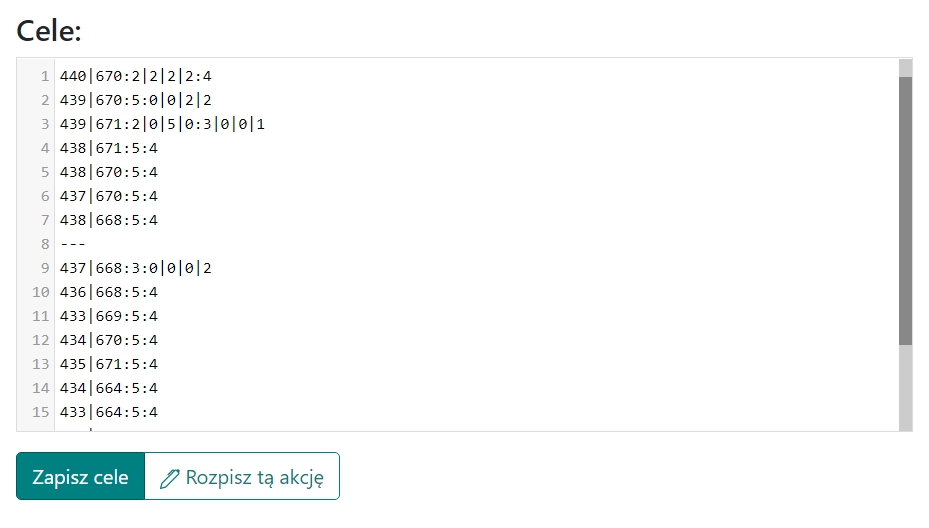
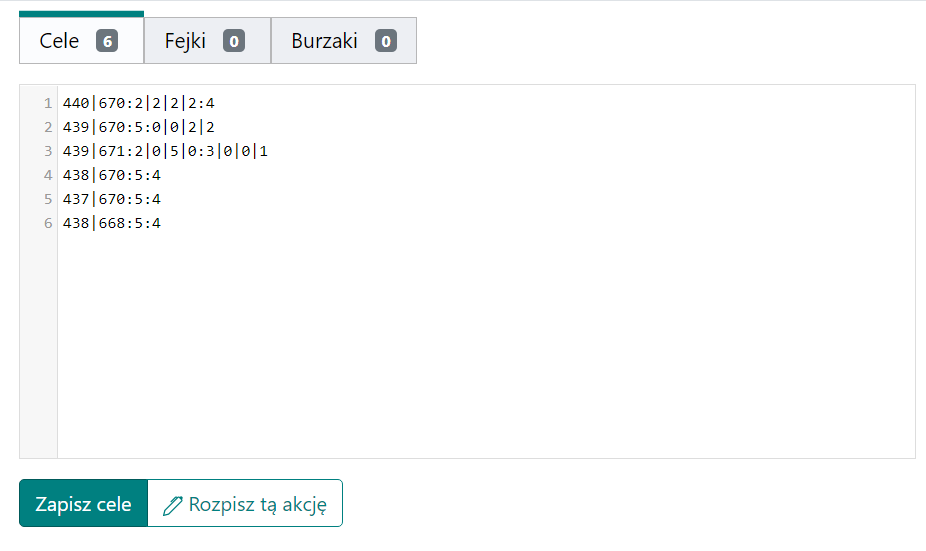
finished v05

diff --git a/tribal_wars/write_out_outline.py b/tribal_wars/write_out_outline.py
@@ -216,6 +216,7 @@ class WriteTarget:
                     building = next(ruin_iter)
                 except StopIteration:
                     break
+                print(building, catapult, i + 1)
             else:
                 off = weight_max.off_left
                 catapult = weight_max.catapult_left
@@ -259,11 +260,18 @@ class WriteTarget:
 
     def sorted_weights_offs(self):
         if self.target.fake:
-            default_off_query = models.WeightMaximum.objects.filter(
-                fake_limit__gte=1,
-                outline=self.outline,
-                off_left__gte=self.outline.initial_outline_min_off,
-            )
+            if self.outline.initial_outline_fake_mode == "off":
+                default_off_query = models.WeightMaximum.objects.filter(
+                    fake_limit__gte=1,
+                    outline=self.outline,
+                    off_left__gte=self.outline.initial_outline_min_off,
+                )
+            else:
+                default_off_query = models.WeightMaximum.objects.filter(
+                    fake_limit__gte=1,
+                    outline=self.outline,
+                    off_left__gte=100 + F("catapult_left") * 8,
+                )   
         elif self.ruin:
             default_off_query = models.WeightMaximum.objects.filter(
                 outline=self.outline

diff --git a/base/views/outline_initial_views.py b/base/views/outline_initial_views.py
@@ -144,6 +144,9 @@ def initial_form(request: HttpRequest, _id: int) -> HttpResponse:
     form4.fields[
         "initial_outline_fake_limit"
     ].initial = instance.initial_outline_fake_limit
+    form4.fields[
+        "initial_outline_fake_mode"
+    ].initial = instance.initial_outline_fake_mode
 
     form5.fields["night_bonus"].initial = instance.night_bonus
     form5.fields["enter_t1"].initial = instance.enter_t1
@@ -224,6 +227,7 @@ def initial_form(request: HttpRequest, _id: int) -> HttpResponse:
                 mode_guide = request.POST.get("mode_guide")
                 fake_limit = request.POST.get("initial_outline_fake_limit")
                 mode_split = request.POST.get("mode_split")
+                initial_outline_fake_mode = request.POST.get("initial_outline_fake_mode")
 
                 instance.mode_off = mode_off
                 instance.mode_noble = mode_noble
@@ -231,6 +235,7 @@ def initial_form(request: HttpRequest, _id: int) -> HttpResponse:
                 instance.mode_guide = mode_guide
                 instance.mode_split = mode_split
                 instance.initial_outline_fake_limit = fake_limit
+                instance.initial_outline_fake_mode = initial_outline_fake_mode
 
                 instance.save()
 

diff --git a/base/models.py b/base/models.py
@@ -246,6 +246,11 @@ class Outline(models.Model):
 
     CATAPULTS_NUMBER = [(50, 50), (75, 75), (100, 100), (150, 150), (200, 200)]
 
+    FAKE_MIN_OFF_CHOICES = [
+        ("off", gettext_lazy("Fakes only from off villages")),
+        ("all", gettext_lazy("Fakes from all villages")),
+    ]
+
     owner = models.ForeignKey(User, on_delete=models.CASCADE)
     date = models.DateField(default=django.utils.timezone.now)
     name = models.TextField()
@@ -287,6 +292,7 @@ class Outline(models.Model):
     initial_outline_fake_limit = models.IntegerField(
         default=4, validators=[MinValueValidator(0), MaxValueValidator(20)]
     )
+    initial_outline_fake_mode = models.CharField(max_length=60, choices=FAKE_MIN_OFF_CHOICES, default="off")
 
     off_troops = models.TextField(
         blank=True,

diff --git a/base/forms.py b/base/forms.py
@@ -320,6 +320,7 @@ class ModeOutlineForm(forms.ModelForm):
             "mode_guide",
             "mode_split",
             "initial_outline_fake_limit",
+            "initial_outline_fake_mode",
         ]
         labels = {
             "mode_off": gettext_lazy("Choose the distance of the written offs:"),
@@ -333,6 +334,9 @@ class ModeOutlineForm(forms.ModelForm):
             ),
             "initial_outline_fake_limit": gettext_lazy(
                 "Maximum number of fakes from one off village:"
+            ),
+            "initial_outline_fake_mode": gettext_lazy(
+                "Determine which villages to write fake attacks from:"
             ),
         }
         widgets = {

diff --git a/tribal_wars/avaiable_troops.py b/tribal_wars/avaiable_troops.py
@@ -150,9 +150,10 @@ def update_available_ruins(outline: models.Outline) -> None:
         .aggregate(ruin_sum=Sum("ruin_number"))["ruin_sum"]
         or 0
     )
-
+    
     ruins_from_offs: int = (
         models.WeightMaximum.objects.filter(
+            outline=outline,
             first_line=False,
             catapult_left__gte=outline.initial_outline_catapult_default
             + outline.initial_outline_off_left_catapult,

diff --git a/docs/documentation_pl.md b/docs/documentation_pl.md
@@ -262,13 +262,9 @@ W zakładce <span class="md-error">Planer</span> należy umieszczać cele akcji 
 210|210:4:4|0|0|0
 215|215:0|2|3|5:2
 220|220:0|0|3|3:2|0|2|0
-200|200
----
-225|225:4:2
-230|230:4:4
-235|235:6:3</pre></div>
+200|200</pre></div>
 
-<div class="p-3 mb-2 bg-light text-dark"><svg xmlns="http://www.w3.org/2000/svg" width="1.2em" height="1.2em" fill="currentColor" class="bi bi-info-square" viewBox="0 0 16 16"><path d="M14 1a1 1 0 0 1 1 1v12a1 1 0 0 1-1 1H2a1 1 0 0 1-1-1V2a1 1 0 0 1 1-1h12zM2 0a2 2 0 0 0-2 2v12a2 2 0 0 0 2 2h12a2 2 0 0 0 2-2V2a2 2 0 0 0-2-2H2z"/><path d="M8.93 6.588l-2.29.287-.082.38.45.083c.294.07.352.176.288.469l-.738 3.468c-.194.897.105 1.319.808 1.319.545 0 1.178-.252 1.465-.598l.088-.416c-.2.176-.492.246-.686.246-.275 0-.375-.193-.304-.533L8.93 6.588zM9 4.5a1 1 0 1 1-2 0 1 1 0 0 1 2 0z"/></svg> Cele mogą być wklejane na kilka sposobów, najłatwiej w kolejnych linijkach wklejać kolejne <span class="md-error">same kordy</span>, wówczas domyślnie ilość offów i szlachty zostanie uzupełniona jako <span class="md-error">0</span>. Ilość offów i szlachty kodowane są najprościej jako np. <span class="md-error">koordy:2:2</span> co oznacza <span class="md-error">koordy:dwa-offy:dwa-szachcice</span>, a bardziej dokładnie zapis <span class="md-error">kordy:2:1|1|1|1</span> oznaczać będzie 2 offy i po 1 szlachcicu kolejno z bliska, bliskiego zaplecza, losowo, z daleka. Separator <span class="md-error">---</span> oddziela prawdziwe cele od fejków, które kodujemy identycznie.</div>
+<div class="p-3 mb-2 bg-light text-dark"><svg xmlns="http://www.w3.org/2000/svg" width="1.2em" height="1.2em" fill="currentColor" class="bi bi-info-square" viewBox="0 0 16 16"><path d="M14 1a1 1 0 0 1 1 1v12a1 1 0 0 1-1 1H2a1 1 0 0 1-1-1V2a1 1 0 0 1 1-1h12zM2 0a2 2 0 0 0-2 2v12a2 2 0 0 0 2 2h12a2 2 0 0 0 2-2V2a2 2 0 0 0-2-2H2z"/><path d="M8.93 6.588l-2.29.287-.082.38.45.083c.294.07.352.176.288.469l-.738 3.468c-.194.897.105 1.319.808 1.319.545 0 1.178-.252 1.465-.598l.088-.416c-.2.176-.492.246-.686.246-.275 0-.375-.193-.304-.533L8.93 6.588zM9 4.5a1 1 0 1 1-2 0 1 1 0 0 1 2 0z"/></svg> Cele mogą być wklejane na kilka sposobów, najłatwiej w kolejnych linijkach wklejać kolejne <span class="md-error">same kordy</span>, wówczas domyślnie ilość offów i szlachty zostanie uzupełniona jako <span class="md-error">0</span>. Ilość offów i szlachty kodowane są najprościej jako np. <span class="md-error">koordy:2:2</span> co oznacza <span class="md-error">koordy:dwa-offy:dwa-szachcice</span>, a bardziej dokładnie zapis <span class="md-error">kordy:2:1|1|1|1</span> oznaczać będzie 2 offy i po 1 szlachcicu kolejno z bliska, bliskiego zaplecza, losowo, z daleka. <b>Fejki</b> i <b>Burzaki</b> wpisujemy w odpowiednich zakładach w ten sam sposób.</div>
 
 
 
@@ -283,22 +279,22 @@ Rozwiń pierwszą zakładkę <span class="md-correct2">1. Dostępne jednostki</s
 <img id="large" class="img-thumbnail" onclick="img_box(this)" style="max-height:250px;" src="/static/docs/test-example.png" alt="test world example content form">
 
 <p class="md-error">Kliknij teraz <span class="md-correct2">Rozpisz tą akcję</span>, czas na kolejną zakładkę :)</p>
-
+ 
 <div class="p-3 mb-2 bg-light text-dark"><svg xmlns="http://www.w3.org/2000/svg" width="1.2em" height="1.2em" fill="currentColor" class="bi bi-info-square" viewBox="0 0 16 16"><path d="M14 1a1 1 0 0 1 1 1v12a1 1 0 0 1-1 1H2a1 1 0 0 1-1-1V2a1 1 0 0 1 1-1h12zM2 0a2 2 0 0 0-2 2v12a2 2 0 0 0 2 2h12a2 2 0 0 0 2-2V2a2 2 0 0 0-2-2H2z"/><path d="M8.93 6.588l-2.29.287-.082.38.45.083c.294.07.352.176.288.469l-.738 3.468c-.194.897.105 1.319.808 1.319.545 0 1.178-.252 1.465-.598l.088-.416c-.2.176-.492.246-.686.246-.275 0-.375-.193-.304-.533L8.93 6.588zM9 4.5a1 1 0 1 1-2 0 1 1 0 0 1 2 0z"/></svg> Dla różnych akcji, ich rozypisywanie będzie się nieco różnić. Dla mniejszych akcji np. w początkowym etapie światów, warto dopracowywać każdy cel z osobna w wygodnej edycji, ale dla ogromnych akcji to oczywiście niemożliwe, wtedy należy bardziej skupić się na zakładce <span class="md-error">Planer</span> i dostepnych tam ustawieniach.</div>
 
 ---
 
 #### Cztery zakładki w Menu akcji
 
-<p class="md-error">W następnej zakładce zobaczysz Menu z 4 zakładkami zaznaczonymi na obrazku poniżej (1,2,3,4), przyciskiem Powrotu do poprzedniej zakładki (5) oraz edycji każdego celu (6,7,8).</p>
+<p class="md-error">W następnej zakładce zobaczysz Menu z 4 zakładkami zaznaczonymi na obrazku poniżej (2,3,4,5), przyciskiem Powrotu do poprzedniej zakładki (1), edycji każdego celu (7,8,9) oraz nawigacja między stronami (10).</p>
 <br>
 <img id="large" class="img-thumbnail" onclick="img_box(this)" style="max-height:250px;" src="/static/docs/test-menu.png" alt="test world example menu">
 <br>
-<p class="md-error">1. DODAJ LUB USUŃ CELE</p>
+<p class="md-error">2. DODAJ LUB USUŃ CELE</p>
 
 Ta zakładka jest bardzo prosta. Dodaj kordy wioski zaznaczając czy jest to cel czy też cel na fejki. Sprawdź czy na pewno ta wioska istnieje na świecie, czy na pewno nie jest to wioska barbarzyńska (takich się nie da dodać w obecnej wersji) oraz czy nie została już przez Ciebie dodana wcześniej (powtórzenia są dozwolone, ale tylko w poprzedniej zakładce.)
 
-<p class="md-error">2. MENU - USTAW CELE</p>
+<p class="md-error">3. MENU - USTAW CELE</p>
 
 Cele są podzielone po 12 na jedną stronę. Przy każdym z nich znajduje się przycisk <span class="md-correct2">Edytuj</span> pozwalający dopracować każdy cel z osobna. Klikając na edycję pierwszego celu czyli <span class="md-error">nr 6</span> na powyższym zdjęciu dostaniemy poniższy widok wraz z ponumerownymi przyciskami, opisanymi poniżej.
 
@@ -318,25 +314,30 @@ Cele są podzielone po 12 na jedną stronę. Przy każdym z nich znajduje się p
 
 ---
 
-<p class="md-error">3. MENU - USTAW FEJKI</p>
+<p class="md-error">4. MENU - USTAW FEJKI</p>
 
 To samo co ustawianie prawdziwych celów, z tą różnicą że domyślnie fejkiem jest liczba jednostek w postaci 100 jednostek. Przy generowaniu celów wyświetlane naszym graczom jest tylko <span class="md-error">wyślij fejka</span> bez konkretów co do jednostek, chodzi o to, że każdy fejk zajmuje pewne miejsce w zagrodzie i niedociągnięciem byłoby to ignorować.
 
-<p class="md-error">4. USTAW CZASY WEJŚCIA I ZAKOŃCZ ROZPISKĘ</p>
+<p class="md-error">5. MENU - USTAW BURZAKI</p>
+
+To samo co ustawianie prawdziwych celów, z tą różnicą że domyślnie widoczne są burzaki i offy. W edycji dodawana liczba katapult w każdym burzaku jest stała i równa domyślnej ustalonej w wcześniejszych formularzach. Przy generowaniu celów wyświetlane naszym graczom jest tylko <span class="md-error">burzak</span> jeśli dodajemy je tutaj, zaś przy automatycznym rozpisywaniu dodatkowo zostanie podany na jaki budynek.
+
+<p class="md-error">6. USTAW CZASY WEJŚCIA I ZAKOŃCZ ROZPISKĘ</p>
 
 <div class="p-3 mb-2 bg-light text-dark"><svg xmlns="http://www.w3.org/2000/svg" width="1.2em" height="1.2em" fill="currentColor" class="bi bi-info-square" viewBox="0 0 16 16"><path d="M14 1a1 1 0 0 1 1 1v12a1 1 0 0 1-1 1H2a1 1 0 0 1-1-1V2a1 1 0 0 1 1-1h12zM2 0a2 2 0 0 0-2 2v12a2 2 0 0 0 2 2h12a2 2 0 0 0 2-2V2a2 2 0 0 0-2-2H2z"/><path d="M8.93 6.588l-2.29.287-.082.38.45.083c.294.07.352.176.288.469l-.738 3.468c-.194.897.105 1.319.808 1.319.545 0 1.178-.252 1.465-.598l.088-.416c-.2.176-.492.246-.686.246-.275 0-.375-.193-.304-.533L8.93 6.588zM9 4.5a1 1 0 1 1-2 0 1 1 0 0 1 2 0z"/></svg> Po oglądnieciu wszystkich zakładek i ewentualnych operacjach w edycji poszczególnych celów, na koniec, w celu zakończenia rozpiski skieruj się do ostatniej zakładki <span class="md-error">Time</span>, której opis znajdziesz poniżej.</div>
 
 <br>
 <img id="large" class="img-thumbnail" onclick="img_box(this)" style="max-height:250px;" src="/static/docs/test-time.png" alt="test world example target edit">
+<img id="large" class="img-thumbnail" onclick="img_box(this)" style="max-height:250px;" src="/static/docs/test-time2.png" alt="test world example target edit">
 <br>
 <p class="my-0"><span class="md-error">1</span> - Zakończenie rozpiski</p>
 <p class="my-0"><span class="md-error">2</span> - Tworzenie nowego obiektu czasu.</p>
 <p class="my-0"><span class="md-error">3</span> -  Tutaj będą kolejno zakładki kolejnych czasów.</p>
 <p class="my-0"><span class="md-error">4</span> -  Usunięcie obiektu czasu.</p>
-<p class="my-0"><span class="md-error">5</span> -  Ustawienie czasu dla wszystkich możliwych celów.</p>
-<p class="my-0"><span class="md-error">6</span> -  Zatwierdzenie po wyborze czasów w 8 dla celów.</p>
-<p class="my-0"><span class="md-error">7</span> -  Numer obecnie przypisanego czasu dla danego celu.</p>
-<p class="my-0"><span class="md-error">8</span> -  Lista dostępnych czasów do wyboru.</p>
+<p class="my-0"><span class="md-error">5</span> -  Zatwierdzenie wybranego czasu dla wszystkich prawdziwych celów.</p>
+<p class="my-0"><span class="md-error">6</span> -  Zatwierdzenie wybranego czasu dla wszystkich fejk celów.</p>
+<p class="my-0"><span class="md-error">7</span> -  Zatwierdzenie wybranego czasu dla wszystkich burzonych celów (Uwaga wtedy jednostka <b>Szlachcic</b> jest utożsamiany z Burzakami (notatka po najechaniu na pytajnik) by nie było zamętu nazewnictwa.</p>
+<p class="my-0"><span class="md-error">8,9,10,11</span> - Analogicznie możemy wybrać numer obecnie przypisanego czasu dla danego celu. Czas aktualizowany jest natychmiast po kliknięciu.</p>
 
 ---
 
@@ -804,6 +805,7 @@ if ("message" in result) {
 <p class="my-0"><b><a href="#male-akcje-kompletny-poradnik">3. Małe akcje - kompletny poradnik</a></b></p>
 <p class="my-0"><b><a href="#srednie-akcje-kompletny-poradnik">4. Średnie akcje - kompletny poradnik</a></b></p>
 <p class="my-0"><b><a href="#duze-akcje-kompletny-poradnik">5. Duże akcje - kompletny poradnik</a></b></p>
+<p class="my-0"><b><a href="#akcje-burzace-kompletny-poradnik">6. Akcje burzące - kompletny poradnik</a></b></p>
 
 ---
 
@@ -821,16 +823,13 @@ if ("message" in result) {
 <img id="large" class="img-thumbnail" onclick="img_box(this)" style="max-height:250px;" src="/static/docs/target-ex1.png" alt="Targets example 1">  
 
 **440|670:5:4** w pierszej linijce to przykład, jak domyślnie kodować ilość offów i szlachciców na dany cel. Pierwsza liczba oznacza <span class="md-error">Ilość offów</span>, zaś druga <span class="md-error">Ilość szlachciców</span>.<br><br>
-Zwróć uwagę na występujący w ósmej linijce separator **---**<br>
-Planer obsługuje dwa rodzaje celów, prawdziwe oraz fejkowe. <span class="md-error">Cele prawdziwe</span> wpisz nad separator **---**, zaś <span class="md-error">Cele fejkowe</span> pod nim. W powyższym przykładzie, wioska **437|668** i poniższe są to <span class="md-error">Cele fejkowe</span> zaś wszystkie powyżej, <span class="md-error">Cele prawdziwe</span>.
-
-<div class="p-3 mb-2 bg-light text-dark"><svg xmlns="http://www.w3.org/2000/svg" width="1.2em" height="1.2em" fill="currentColor" class="bi bi-info-square" viewBox="0 0 16 16"><path d="M14 1a1 1 0 0 1 1 1v12a1 1 0 0 1-1 1H2a1 1 0 0 1-1-1V2a1 1 0 0 1 1-1h12zM2 0a2 2 0 0 0-2 2v12a2 2 0 0 0 2 2h12a2 2 0 0 0 2-2V2a2 2 0 0 0-2-2H2z"/><path d="M8.93 6.588l-2.29.287-.082.38.45.083c.294.07.352.176.288.469l-.738 3.468c-.194.897.105 1.319.808 1.319.545 0 1.178-.252 1.465-.598l.088-.416c-.2.176-.492.246-.686.246-.275 0-.375-.193-.304-.533L8.93 6.588zM9 4.5a1 1 0 1 1-2 0 1 1 0 0 1 2 0z"/></svg> Jeśli separator <b>---</b> nie zostanie nigdzie wpisany, domyślnie pojawi się pod wpisanymi celami (innymi słowy, domyślnie <b>nie</b> podając celów na fejki, przyjmuje się, że wpisujesz tylko prawdziwe cele i separator pojawia się na samym końcu).</div><br>
+Planer obsługuje trzy rodzaje celów, prawdziwe, fejkowe oraz burzące. <span class="md-error">Cele prawdziwe</span> zamieszaj w **Cele**, <span class="md-error">Cele fejkowe</span> obok w **Fejki**, zaś <span class="md-error">Cele do burzenia</span> w **Burzaki**. Dla **Fejków** kodujemy zamiast offów i szlachiców odpowiednio ilość fejków i fejk szlachciców, zaś w zakładce **Burzaki** odpowiednio ilość offów i ilość burzaków (które wchodzą za offami).
 
 ##### Przykład 2, rozszerzone kodowanie offów i szlachty
 
 <img id="large" class="img-thumbnail" onclick="img_box(this)" style="max-height:250px;" src="/static/docs/target-ex2.png" alt="Targets example 2">  
 
-Domyślne cele jak w **Przykładzie 1**, dziedziczą tryb wysyłania z zakładki <b><a href="#jak-wpisywac-i-zapisac-cele-akcji">3. Domyślne ustawienia trybu akcji</a></b>, czyli np. offy losowo z zaplecza oraz szlachta z najbliższego frontu. W przypadku gdy chcemy na dany cel, np. linijkę numer 3 w **Przykładzie 2**, czyli **439|671** wysłać **5 offów losowo z zaplecza**, **2 offów z bliskiego zaplecza**, **1 szlachcica z daleka** oraz ostatnie **3 szlachcice z bliska**, można wykorzystać rozszerzoną składnię wpisując:<br><br>
+Domyślnie cele jak w **Przykładzie 1**, dziedziczą tryb wysyłania z zakładki <b><a href="#jak-wpisywac-i-zapisac-cele-akcji">3. Domyślne ustawienia trybu akcji</a></b>, czyli np. offy losowo z zaplecza oraz szlachta z najbliższego frontu. W przypadku gdy chcemy na dany cel, np. linijkę numer 3 w **Przykładzie 2**, czyli **439|671** wysłać **5 offów losowo z zaplecza**, **2 offów z bliskiego zaplecza**, **1 szlachcica z daleka** oraz ostatnie **3 szlachcice z bliska**, można wykorzystać rozszerzoną składnię wpisując:<br><br>
 <span class="md-error">439|671:2|0|5|0:3|0|0|1</span><br><br>
 W takim przypadku zmiast jednej liczby offów wpisaliśmy **2|0|5|0** a zamiast jednej liczby szlachciców wpisaliśmy **3|0|0|1**. Korzystamy z rozszerzonej składni wtedy gdy zależy nam na części rozkazów z daleka a innej części z bliska, do wyboru są 4 rejony naszegeo plemienia.
 
@@ -840,7 +839,7 @@ W takim przypadku zmiast jednej liczby offów wpisaliśmy **2|0|5|0** a zamiast 
 
 <img id="large" class="img-thumbnail" onclick="img_box(this)" style="max-height:250px;" src="/static/docs/target-ex3.png" alt="Targets example 3">  
 
-<span class="md-error">Błędy</span> pojawią się w standardowych przypadkach, czyli przede wszystkim gdy dana wioska <b>nie istnieje</b> na zadeklarowanym w rozpisce świecie lub gdy wioska <b>jest barbarzyńska</b> oraz gdy wpisywane po kordach znaki nie będą jednymi z podanych powyżej możliwości. Nie ma przeszkód by celami były wioski współplemieńców lub by te same wioski były wpisane wielokrotnie (choć w tym przypadku, u góry pojawi się informacja, że wykryto powtórzenia).
+<span class="md-error">Błędy</span> pojawią się w standardowych przypadkach, czyli przede wszystkim gdy dana wioska <b>nie istnieje</b> na zadeklarowanym w rozpisce świecie lub gdy wioska <b>jest barbarzyńska</b> oraz gdy wpisywane po kordach znaki nie będą jednymi z podanych powyżej możliwości. Nie ma przeszkód by celami były wioski współplemieńców lub by te same wioski były wpisane wielokrotnie (choć w tym przypadku, u góry pojawi się informacja, że wykryto powtórzenia). Powtórzenia nie są zabronione, każdy wpisany cel, nawet jeśli pojawia się wielokrotnie, zostanie potraktowany oddzielnie, tym nie mniej może to spowodować chaos u graczy bo będzie np. kilka tych samych celów z różnymi rozkazami na nie (?). Powtórzenia w różnych zakładkach (<b>Cele, Fejki, Burzaki</b>) nie są zliczane.
 
 <b><a href="#podstawowe-poradniki-zakladki-planer"><svg xmlns="http://www.w3.org/2000/svg" width="16" height="16" fill="currentColor" class="bi bi-arrow-left" viewBox="0 0 16 16"><path fill-rule="evenodd" d="M15 8a.5.5 0 0 0-.5-.5H2.707l3.147-3.146a.5.5 0 1 0-.708-.708l-4 4a.5.5 0 0 0 0 .708l4 4a.5.5 0 0 0 .708-.708L2.707 8.5H14.5A.5.5 0 0 0 15 8z"/>
 </svg> Powrót do początku rozdziału.</a></b>
@@ -1030,10 +1029,134 @@ Prawdopodobnie powinieneś też włączyć w zakładce **5.** unikanie wysyłek 
 
 <div class="p-3 mb-2 bg-light text-dark"><svg xmlns="http://www.w3.org/2000/svg" width="1.2em" height="1.2em" fill="currentColor" class="bi bi-info-square" viewBox="0 0 16 16"><path d="M14 1a1 1 0 0 1 1 1v12a1 1 0 0 1-1 1H2a1 1 0 0 1-1-1V2a1 1 0 0 1 1-1h12zM2 0a2 2 0 0 0-2 2v12a2 2 0 0 0 2 2h12a2 2 0 0 0 2-2V2a2 2 0 0 0-2-2H2z"/><path d="M8.93 6.588l-2.29.287-.082.38.45.083c.294.07.352.176.288.469l-.738 3.468c-.194.897.105 1.319.808 1.319.545 0 1.178-.252 1.465-.598l.088-.416c-.2.176-.492.246-.686.246-.275 0-.375-.193-.304-.533L8.93 6.588zM9 4.5a1 1 0 1 1-2 0 1 1 0 0 1 2 0z"/></svg> Po wpisaniu wszystkich celów, zmianie ustawień akcji i ustawieniu omijania bonusu nocnego, znanym już z <b>Świata Testowego</b> sposobem przejdź do dalszej częsci rozpiski klikając <span class="md-correct2">Rozpisz tą akcję</span>, następnie sprawdź czy wszystko jest OK i ewentualnie powróć przyciskiem Powrót, zmień ustawienia. Potem standardowo przejdź do zakładki Czasów, ustal czasy wejścia, zakończ rozpiskę i roześlij graczom ich cele.</div><br>
 
+
+
 <b><a href="#podstawowe-poradniki-zakladki-planer"><svg xmlns="http://www.w3.org/2000/svg" width="16" height="16" fill="currentColor" class="bi bi-arrow-left" viewBox="0 0 16 16"><path fill-rule="evenodd" d="M15 8a.5.5 0 0 0-.5-.5H2.707l3.147-3.146a.5.5 0 1 0-.708-.708l-4 4a.5.5 0 0 0 0 .708l4 4a.5.5 0 0 0 .708-.708L2.707 8.5H14.5A.5.5 0 0 0 15 8z"/>
 </svg> Powrót do początku rozdziału.</a></b>
 
 <br>
+
+---
+
+<br>
+<br>
+<br>
+
+## Akcje burzące - kompletny poradnik {#akcje-burzace-kompletny-poradnik}
+
+<div class="p-3 mb-2 bg-light text-dark"><svg xmlns="http://www.w3.org/2000/svg" width="1.2em" height="1.2em" fill="currentColor" class="bi bi-info-square" viewBox="0 0 16 16"><path d="M14 1a1 1 0 0 1 1 1v12a1 1 0 0 1-1 1H2a1 1 0 0 1-1-1V2a1 1 0 0 1 1-1h12zM2 0a2 2 0 0 0-2 2v12a2 2 0 0 0 2 2h12a2 2 0 0 0 2-2V2a2 2 0 0 0-2-2H2z"/><path d="M8.93 6.588l-2.29.287-.082.38.45.083c.294.07.352.176.288.469l-.738 3.468c-.194.897.105 1.319.808 1.319.545 0 1.178-.252 1.465-.598l.088-.416c-.2.176-.492.246-.686.246-.275 0-.375-.193-.304-.533L8.93 6.588zM9 4.5a1 1 0 1 1-2 0 1 1 0 0 1 2 0z"/></svg> W tym poradniku zobaczysz jak rozpisywać akcje burzące, docelowo w późniejszym etapie świata. <span class="md-error">Uwaga</span>, zakładana jest już cała wiedza z <a target="_blank" href="#swiat-testowy-czyli-pierwsze-kroki-z-planerem"><b>Pierwszych kroków z planerem</b></a>! oraz zalecane przeczytanie najpierw dwóch krótkich poprzednich uniwersalnych poradników w tym dziale, czyli <a target="_blank" href="#jak-wpisywac-i-zapisac-cele-akcji"><b>Jak wpisywać i zapisać cele akcji</b></a> i <a target="_blank" href="#dwa-rejony-plemienia-czyli-co-to-front-i-zaplecze"><b>Dwa rejony plemienia czyli co to front i zaplecze</b></a>.</div><br>
+
+Akcja będzie całkowicie tworzona w polu **Burzaki** obok Celów. Ustawienia w zakładce **6. Burzaki** są bardzo proste i prawdopodobnie domyślne będę wystarczająco dobre (czyli 100 katapult na atak burzący, 50 pozostawione w każdym offie, domyślna kolejność burzenia i rozwinięte wrogie wioski).
+
+<h5>Przykład celów burzących, po 3 offy i 15 burzaków:</h5>
+<img id="large" class="img-thumbnail" onclick="img_box(this)" style="max-height:250px;" src="/static/docs/outline_ruin1.png" alt="Outline ruin1">
+
+<div class="p-3 mb-2 bg-light text-dark"><svg xmlns="http://www.w3.org/2000/svg" width="1.2em" height="1.2em" fill="currentColor" class="bi bi-info-square" viewBox="0 0 16 16"><path d="M14 1a1 1 0 0 1 1 1v12a1 1 0 0 1-1 1H2a1 1 0 0 1-1-1V2a1 1 0 0 1 1-1h12zM2 0a2 2 0 0 0-2 2v12a2 2 0 0 0 2 2h12a2 2 0 0 0 2-2V2a2 2 0 0 0-2-2H2z"/><path d="M8.93 6.588l-2.29.287-.082.38.45.083c.294.07.352.176.288.469l-.738 3.468c-.194.897.105 1.319.808 1.319.545 0 1.178-.252 1.465-.598l.088-.416c-.2.176-.492.246-.686.246-.275 0-.375-.193-.304-.533L8.93 6.588zM9 4.5a1 1 0 1 1-2 0 1 1 0 0 1 2 0z"/></svg> Szacunkową liczbę dostępnych burzaków możesz uzyskać korzystając z poznanej zakładki <b>1. Dostępne jednostki</b>. Po każdym odświeżeniu, w tabeli pod nazwą <b>Przybliżona liczba możliwych do rozpisania burzaków</b> znaleźć można szacunkową liczbę burzaków gotowych do rozpisania (szacunkową, bo w przypadku pełnych offów nie zawsze da się dokładnie określić w tym miejscu ile katapult można puścić do burzenia. W zależności od ilości katapult na burzaka i ilości wiosek w plemieniu, prawdziwy wynik może być sporo mniejszy niż podany). Po każdej zmianie ilość katapult w <b>Zakładce 6.</b> należy ponownie skorzystać z <b>Zakładki 1</b>. </div><br>
+
+Nasuwa się pytanie jak określić ile burzaków na jedną wioskę dla danej ilości katapult (50, 75, 100, 150, 200) powinniśmy rozpisać (Np. czym dokładnie powyższe 15 różni się od 10). Pomóc w tym może poniższa tabela, w której dla danej ilości katapult i ilości burzaków określono jakie budynki zostaną zniszczone.<br>
+
+<div class="table-responsive">
+<table class="table table-bordered">
+  <thead>
+    <tr style="border-bottom: 3px solid black;">
+      <th class="md-correct2" scope="col">Ilość katapult w burzaku</th>
+      <th class="md-correct2" scope="col">50</th>
+      <th class="md-correct2" scope="col">75</th>
+      <th class="md-correct2" scope="col">100</th>
+      <th class="md-correct2" scope="col">150</th>
+      <th class="md-correct2" scope="col">200</th>
+    </tr>
+  </thead>
+  <tbody>
+    <tr>
+      <th scope="col">Zagroda (do 0)</th>
+      <th scope="col">14 </th>
+      <th scope="col">7 </th>
+      <th scope="col">5 </th>
+      <th scope="col">4 </th>
+      <th scope="col">3 </th>
+    </tr>
+    <tr>
+      <th scope="col">Zagroda + Ratusz (do 0)</th>
+      <th scope="col">18 </th>
+      <th scope="col">10 </th>
+      <th scope="col">7 </th>
+      <th scope="col">6 </th>
+      <th scope="col">5 </th>
+    </tr>
+    <tr>
+      <th scope="col">Zagroda + Ratusz + Kuźnia  (do 0)</th>
+      <th scope="col">24 </th>
+      <th scope="col">13 </th>
+      <th scope="col">9 </th>
+      <th scope="col">8 </th>
+      <th scope="col">7 </th>
+    </tr>
+    <tr>
+      <th scope="col">Zagroda + Ratusz + Kuźnia + Koszary  (do 0)</th>
+      <th scope="col">34 </th>
+      <th scope="col">17 </th>
+      <th scope="col">13 </th>
+      <th scope="col">11 </th>
+      <th scope="col">9 </th>
+    </tr>
+    <tr>
+      <th scope="col">... + Koszary + Cegielnia  (do 0)</th>
+      <th scope="col">... </th>
+      <th scope="col">24 </th>
+      <th scope="col">18 </th>
+      <th scope="col">15 </th>
+      <th scope="col">12 </th>
+    </tr>
+    <tr>
+      <th scope="col">... + Koszary + Cegielnia + Tartak  (do 0)</th>
+      <th scope="col">... </th>
+      <th scope="col">31 </th>
+      <th scope="col">23 </th>
+      <th scope="col">19 </th>
+      <th scope="col">15 </th>
+    </tr>
+    <tr>
+      <th scope="col">... + Cegielnia + Tartak + Huta żelaza  (do 0)</th>
+      <th scope="col">... </th>
+      <th scope="col">... </th>
+      <th scope="col">28 </th>
+      <th scope="col">23 </th>
+      <th scope="col">18 </th>
+    </tr>
+    <tr>
+      <th scope="col">... + EKO + spichlerz  (do 0)</th>
+      <th scope="col">... </th>
+      <th scope="col">... </th>
+      <th scope="col">33 </th>
+      <th scope="col">27 </th>
+      <th scope="col">21 </th>
+    </tr>
+    <tr>
+      <th scope="col">... + EKO + spichlerz + stajnia  (do 0)</th>
+      <th scope="col">... </th>
+      <th scope="col">... </th>
+      <th scope="col">35 </th>
+      <th scope="col">29 </th>
+      <th scope="col">23 </th>
+    </tr>
+  </tbody>
+
+</table>
+</div>
+
+Wystarczy wybrać stałą ilość katapult dla akcji (domyślnie 100 - mniejsze ilości czyli 50 i 75 nie są zbyt skuteczne jak widać powyżej, choć też mogą mieć jakieś zastosowania), a następnie ustalić ile budynków powinno zostać zniszczone i dobrać w danej linijce taką ilość burzaków, np. dla **100** katapult oznaczenie **437|668:3:13** powinno wyzerować **Zagrodę + Ratusz + Kuźnię + Koszary** w tej wiosce, podczas gdy już **11** wyzeruje je dla **150** katapult a potrzeba aż **34**(!!!) burzaków by zburzyć to atakami po **50** katapult.
+
+<div class="p-3 mb-2 bg-light text-dark"><svg xmlns="http://www.w3.org/2000/svg" width="1.2em" height="1.2em" fill="currentColor" class="bi bi-info-square" viewBox="0 0 16 16"><path d="M14 1a1 1 0 0 1 1 1v12a1 1 0 0 1-1 1H2a1 1 0 0 1-1-1V2a1 1 0 0 1 1-1h12zM2 0a2 2 0 0 0-2 2v12a2 2 0 0 0 2 2h12a2 2 0 0 0 2-2V2a2 2 0 0 0-2-2H2z"/><path d="M8.93 6.588l-2.29.287-.082.38.45.083c.294.07.352.176.288.469l-.738 3.468c-.194.897.105 1.319.808 1.319.545 0 1.178-.252 1.465-.598l.088-.416c-.2.176-.492.246-.686.246-.275 0-.375-.193-.304-.533L8.93 6.588zM9 4.5a1 1 0 1 1-2 0 1 1 0 0 1 2 0z"/></svg> Pamiętaj, że u podstaw rozpisywania leży prosty algrytm zachłanny i stąd Planer ZAWSZE rozpisuje czy burzaki, czy fejki czy offy <b>LOSOWO</b> w bardzo podobny sposób, więc jeśli chcesz by offy czy burzaki były zupełnie nieodróżnialne od fejków, musisz rozpisać mnóstwo fejków. W przypadku burzenia warto zaznaczyć opcję <span class="md-error">Fejki ze wszystkich wiosek</span> z Zakładki <b>3. Domyślne ustawienia akcji</b>, która w przeciwieństwie do domyślnego ustawienia, fejki rozpisuje z wszystkich zapleczowych wiosek.</div><br>
+
+Podsumowując warto zastanowić się nad ilością katapult (i ile budynków warto w ogóle zburzyć, być może wystarczy tylko zagroda + ratusz + kuźnia?) i rozpisać mnóstwo fejków. Miłego gruzowania.
+
+<b><a href="#podstawowe-poradniki-zakladki-planer"><svg xmlns="http://www.w3.org/2000/svg" width="16" height="16" fill="currentColor" class="bi bi-arrow-left" viewBox="0 0 16 16"><path fill-rule="evenodd" d="M15 8a.5.5 0 0 0-.5-.5H2.707l3.147-3.146a.5.5 0 1 0-.708-.708l-4 4a.5.5 0 0 0 0 .708l4 4a.5.5 0 0 0 .708-.708L2.707 8.5H14.5A.5.5 0 0 0 15 8z"/>
+</svg> Powrót do początku rozdziału.</a></b>
+
+<br>
+
+---
 
 <div class="p-3 mb-2 bg-light text-dark"><svg xmlns="http://www.w3.org/2000/svg" width="1.2em" height="1.2em" fill="currentColor" class="bi bi-info-square" viewBox="0 0 16 16"><path d="M14 1a1 1 0 0 1 1 1v12a1 1 0 0 1-1 1H2a1 1 0 0 1-1-1V2a1 1 0 0 1 1-1h12zM2 0a2 2 0 0 0-2 2v12a2 2 0 0 0 2 2h12a2 2 0 0 0 2-2V2a2 2 0 0 0-2-2H2z"/><path d="M8.93 6.588l-2.29.287-.082.38.45.083c.294.07.352.176.288.469l-.738 3.468c-.194.897.105 1.319.808 1.319.545 0 1.178-.252 1.465-.598l.088-.416c-.2.176-.492.246-.686.246-.275 0-.375-.193-.304-.533L8.93 6.588zM9 4.5a1 1 0 1 1-2 0 1 1 0 0 1 2 0z"/></svg> To już wszystko w tym artykule dotyczącym Opisów ustawień zaawansowanych.
 <br>
@@ -1061,6 +1184,7 @@ Prawdopodobnie powinieneś też włączyć w zakładce **5.** unikanie wysyłek 
 <p class="my-0"><b><a href="#domyslne-ustawienia-trybu-akcji">3. Domyślne ustawienia trybu akcji</a></b></p>
 <p class="my-0"><b><a href="#wybierz-tryb-dla-kazdego-celu-z-osobna">4. Wybierz tryb dla każdego celu z osobna</a></b></p>
 <p class="my-0"><b><a href="#unikanie-bonusu-nocnego">5. Unikanie bonusu nocnego.</a></b></p>
+<p class="my-0"><b><a href="#burzenie">6. Burzenie.</a></b></p>
 
 ---
 
@@ -1209,6 +1333,23 @@ Domyślnie opcja ta jest **wyłączona**, zaznacz pierwszy kwadracik by ją usta
 
 <b><a href="#opisy-zaawansowanych-ustawien-akcji"><svg xmlns="http://www.w3.org/2000/svg" width="16" height="16" fill="currentColor" class="bi bi-arrow-left" viewBox="0 0 16 16"><path fill-rule="evenodd" d="M15 8a.5.5 0 0 0-.5-.5H2.707l3.147-3.146a.5.5 0 1 0-.708-.708l-4 4a.5.5 0 0 0 0 .708l4 4a.5.5 0 0 0 .708-.708L2.707 8.5H14.5A.5.5 0 0 0 15 8z"/>
 </svg> Powrót do początku rozdziału.</a></b>
+
+---
+
+<br>
+<br>
+<br>
+
+## 6. Burzenie {#burzenie}
+
+<div class="p-3 mb-2 bg-light text-dark"><svg xmlns="http://www.w3.org/2000/svg" width="1.2em" height="1.2em" fill="currentColor" class="bi bi-info-square" viewBox="0 0 16 16"><path d="M14 1a1 1 0 0 1 1 1v12a1 1 0 0 1-1 1H2a1 1 0 0 1-1-1V2a1 1 0 0 1 1-1h12zM2 0a2 2 0 0 0-2 2v12a2 2 0 0 0 2 2h12a2 2 0 0 0 2-2V2a2 2 0 0 0-2-2H2z"/><path d="M8.93 6.588l-2.29.287-.082.38.45.083c.294.07.352.176.288.469l-.738 3.468c-.194.897.105 1.319.808 1.319.545 0 1.178-.252 1.465-.598l.088-.416c-.2.176-.492.246-.686.246-.275 0-.375-.193-.304-.533L8.93 6.588zM9 4.5a1 1 0 1 1-2 0 1 1 0 0 1 2 0z"/></svg> Zakładka zawiera kilka ustawień dotyczących akcji burzących. </div>
+
+<h5>Wygląd zakładki:</h5>
+<img id="large" class="img-thumbnail" onclick="img_box(this)" style="max-height:250px;" src="/static/docs/ruin1.png" alt="Ruin settings">
+
+<br>
+
+Do wyboru w pod numerem **1.** jest liczba katpult w każdym burzącym ataku. Aby burzak wyszedł z wioski naszego gracza, musi być tam co najmniej tyle katapult ile tutaj zdefiniowane. Pod numerem **2.** ustalamy ilość katapult w pełnych offach, która powinna zawsze zostać w wioskach celem puszczenia wraz z offem. W kolejnym ustawieniu możemy zmieniać domyślną kolejność burzenia budynków. Planer dobiera tyle burzaków ile trzeba i "leci" po kolejnych budynkach aż do skończenia rozpisywanych na tą wioskę ataków burzących w kolejności tutaj zdefiniowanej. W ostatnim polu możemy wybrać wielkość burzonych wiosek, domyślnie są to duże, pełne wioski z maksymalnymi budynkami ok. 9k punktów (stąd i więcej katapult trzeba do zburzenia zagrody, kuźni itp. niż gdy jest to wioska 5k pkt.). Wybieramy wedle specyfiki naszej akcji.
 
 <br>
 
